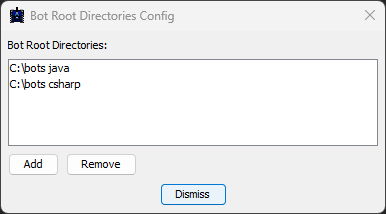
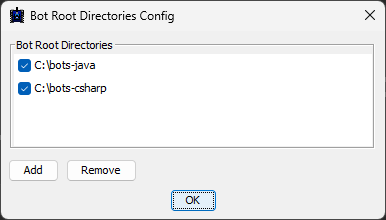
#89: Bugfix: Booting and unbooting multiple bots did not work anymore.

diff --git a/gui-app/src/main/kotlin/dev/robocode/tankroyale/gui/booter/BootProcess.kt b/gui-app/src/main/kotlin/dev/robocode/tankroyale/gui/booter/BootProcess.kt
@@ -100,12 +100,14 @@ object BootProcess {
     private fun bootBotsWithAlreadyBootedProcess(botDirNames: List<String>) {
         PrintStream(booterProcess?.outputStream!!).also { printStream ->
             botDirNames.forEach { printStream.println("boot $it") }
+            printStream.flush()
         }
     }
 
     private fun stopBotsWithBootedProcess(pids: List<Long>) {
         PrintStream(booterProcess?.outputStream!!).also { printStream ->
             pids.forEach { printStream.println("stop $it") }
+            printStream.flush()
         }
     }
 

diff --git a/VERSIONS.MD b/VERSIONS.MD
@@ -1,4 +1,11 @@
-## 📦 0.23.2
+## 📦 0.23.2 - Bug fixed booting + enabling/disabling bot directories - 21-May-2023
+
+#### 🪲 Bug Fixes
+
+- Booter:
+    - #89: Major bug fix: Booting and unbooting multiple bots did not work anymore.
+
+#### 🚀 Improvements
 
 - GUI:
     - Bot directories can now be enabled and disabled on the Bot Root Directories Config dialog. In addition, multiple
